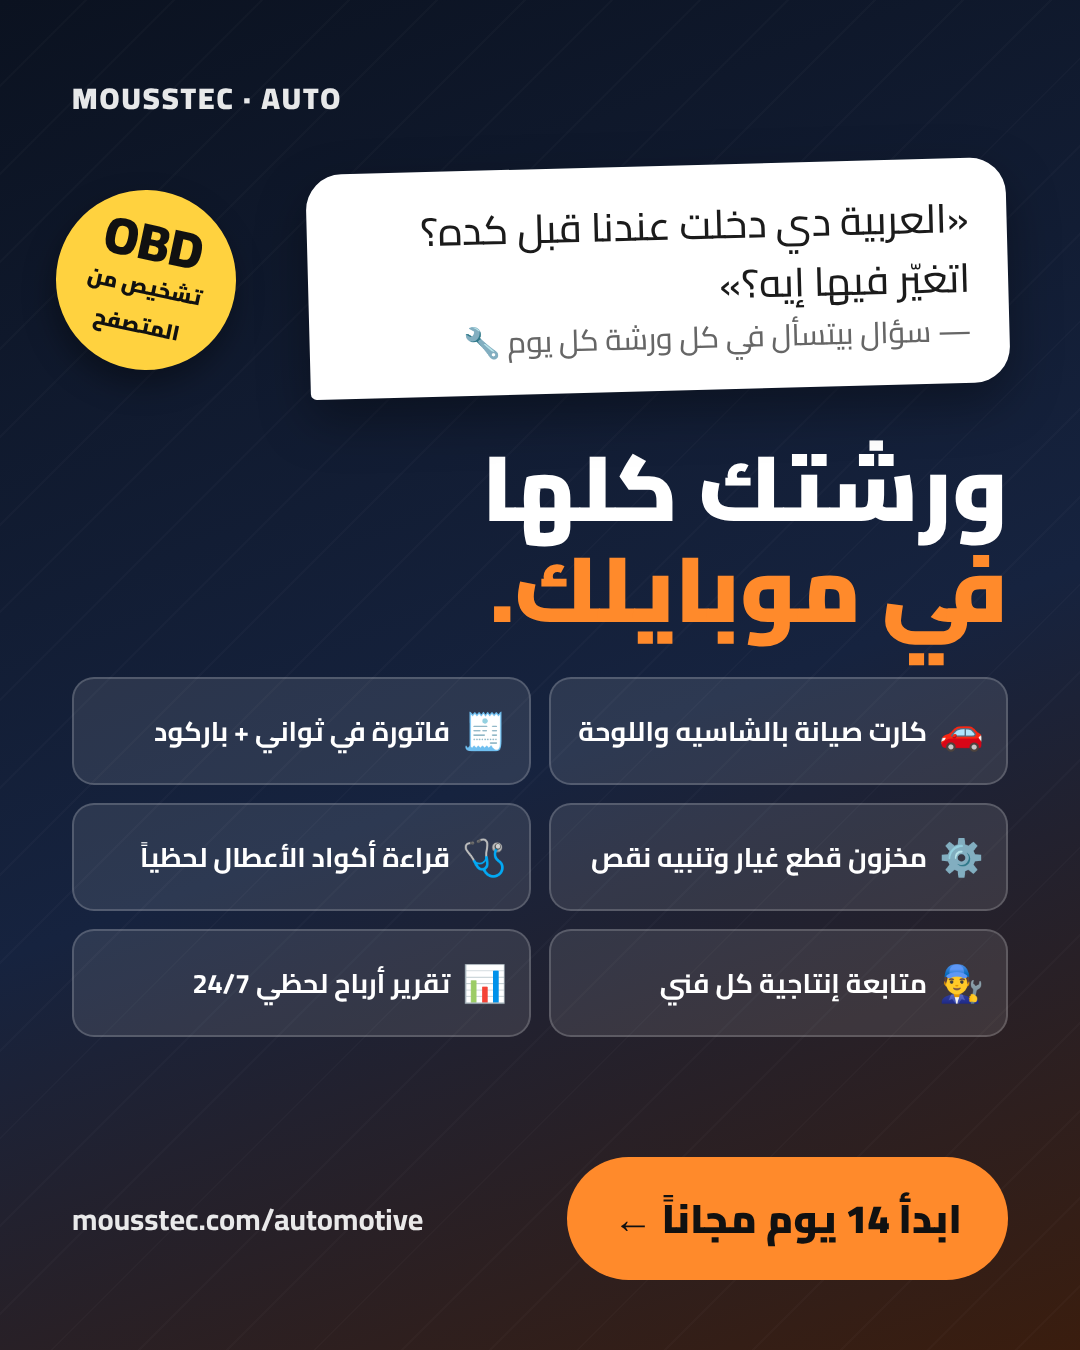
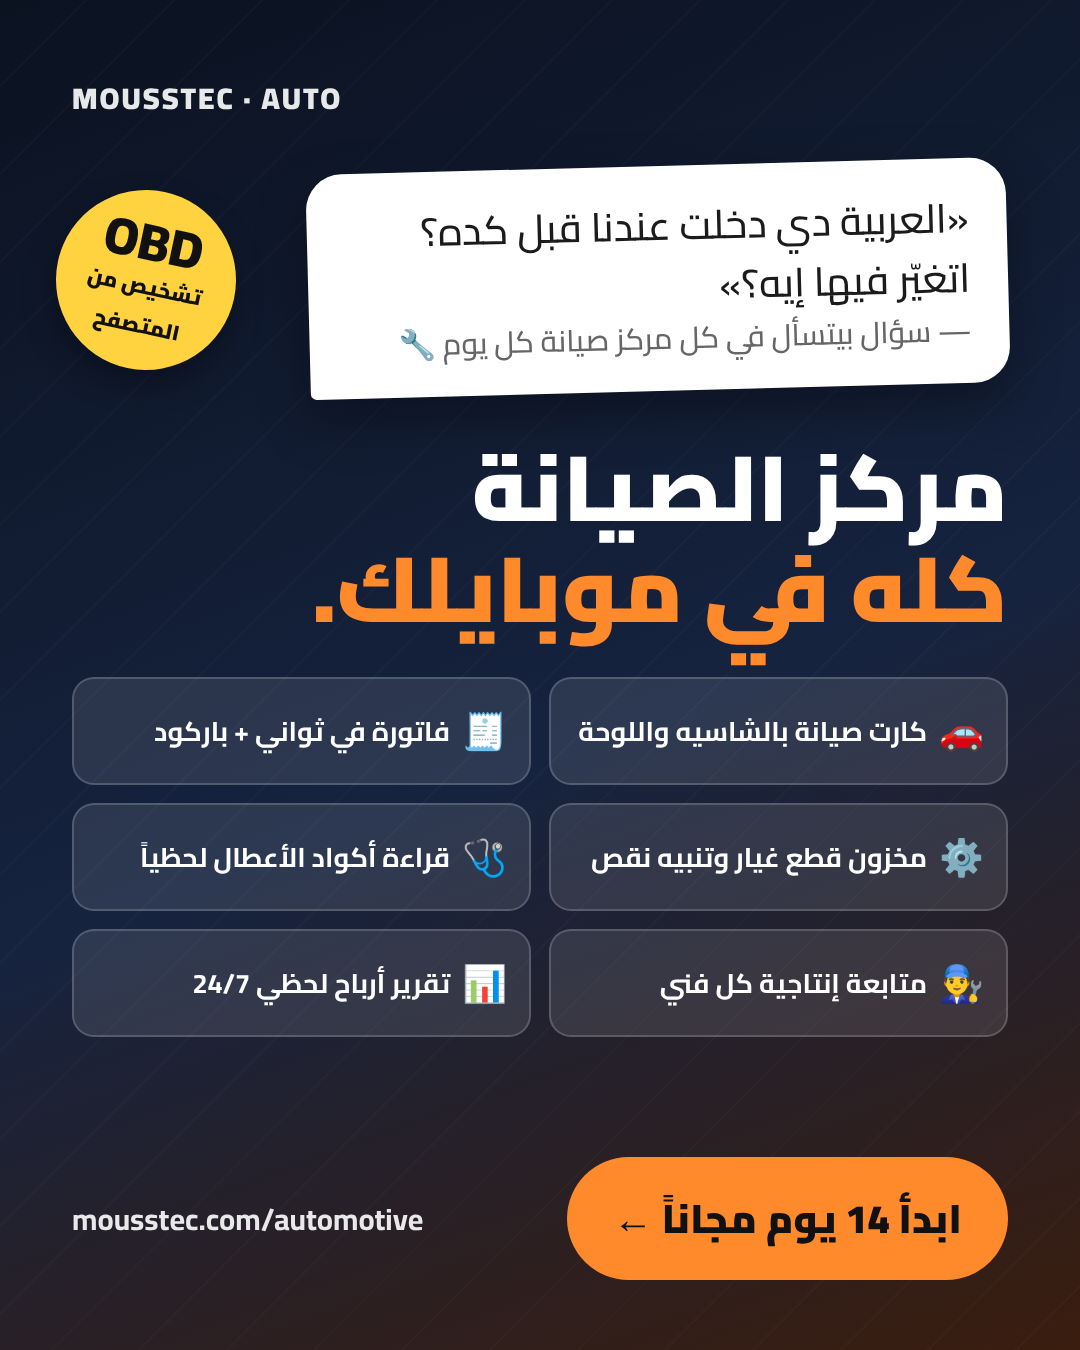
إعلانات: فصل السوق (عربيات/براند) + إعلان قطع الغيار والمستوردين + «مركز الصيانة» بدل الورشة
Claude-Session: https://claude.ai/code/session_01UznEmFMqksHGcdgbuHLP51

Changed region(s): [[0.275, 0.3111, 0.9472, 0.4978], [0.3667, 0.2489, 0.6111, 0.28]]

diff --git a/docs/ads/brand.html b/docs/ads/brand.html
@@ -1,0 +1,23 @@
+<html><head><meta charset="utf-8"><link rel="stylesheet" href="base.css"><style>
+body{background:#fdf1f6;color:#22142b}
+.logo,.url{color:#22142b}.who{color:#6b5870}
+.quote{background:#7b2cbf;color:#fff}
+h1{margin-top:30px;font-size:84px}h1 em{color:#7b2cbf}.btn{background:#ff4f8b;color:#fff}.sticker{background:#ffd23f}
+.price{margin-top:30px;display:flex;align-items:center;gap:22px;background:#22142b;color:#fff;border-radius:28px;padding:22px 30px}
+.price .big{font-size:76px;font-weight:900;color:#ffd23f;line-height:1}.price .s{font-size:28px;font-weight:700;line-height:1.4}
+.items{margin-top:28px;display:flex;flex-wrap:wrap;gap:14px}
+.items span{font-size:27px!important;background:#fff;border:2px solid #ecd3e2;border-radius:999px;padding:12px 24px;font-size:29px;font-weight:700}
+.items span:nth-child(odd){transform:rotate(-2deg)}.items span:nth-child(even){transform:rotate(2deg)}
+.note{margin-top:20px;margin-bottom:20px;font-size:30px;font-weight:700}
+</style></head><body>
+<div class="sticker"><span class="n">32ج</span><span class="t">25 تصميم<br>بالـ AI</span></div>
+<div class="wrap">
+<div class="logo">MOUSSTEC · سوق الطباعة</div>
+<div class="quote">«عاوز لوجو وكام حاجة مطبوعة لمحلي… والمصمم طالب ٣٠٠٠ جنيه» 😅</div>
+<div class="who">— منة، فاتحة براند هاند ميد</div>
+<h1>صمّم بقروش…<br><em>واطبع على أي حاجة.</em></h1>
+<div class="price"><span class="big">25</span><span class="s">تصميم بـ 32 جنيه بس — لوجو، فلاير، كارت، بوستر<br><span style="opacity:.75;font-weight:500">وتشوف العينات قبل ما توافق</span></span></div>
+<div class="items"><span>📒 دفاتر</span><span>👕 تيشرتات</span><span>🪵 طباعة على الخشب</span><span>🖊 أقلام</span><span>☕ ماجات</span><span>🪪 كروت بزنس</span><span>✨ أي حاجة في دماغك</span></div>
+<div class="note">انزل طلبك في السوق… <span style="color:#7b2cbf">والمطابع تتنافس وتبعتلك عروض.</span></div>
+<div class="cta"><span class="btn">اطلب دلوقتي ←</span><span class="url">mousstec.com</span></div>
+</div></body></html>

diff --git a/docs/ads/parts.html b/docs/ads/parts.html
@@ -1,0 +1,21 @@
+<html><head><meta charset="utf-8"><link rel="stylesheet" href="base.css"><style>
+body{background:linear-gradient(170deg,#06281f 0%,#0c3b2e 50%,#122018 100%)}
+body:before{content:"";position:absolute;inset:0;background:radial-gradient(circle at 15% 85%,#f5b70033,transparent 40%)}
+h1{font-size:84px}h1 em{color:#f5b700}.btn{background:#f5b700}.sticker{background:#fff}
+</style></head><body>
+<div class="sticker"><span class="n">B2B</span><span class="t">بيع شحنات<br>لتجار تانيين</span></div>
+<div class="wrap">
+<div class="logo">MOUSSTEC · PARTS</div>
+<div class="quote">«القطعة دي عندنا ولا خلصت؟ ورقمها إيه؟ وفلان عليه كام؟» 🤯</div>
+<div class="who">— كل يوم في محل قطع غيار</div>
+<h1>محلك أو شركة الاستيراد…<br><em>تحت إيدك.</em></h1>
+<div class="feats">
+<div class="f"><b>⚙</b>مخزون بأرقام القطع + باركود</div>
+<div class="f"><b>🔔</b>تنبيه قبل الصنف ما يخلص</div>
+<div class="f"><b>🧾</b>فواتير بيع وشراء + واتساب</div>
+<div class="f"><b>📒</b>كشف حساب عملاء وموردين</div>
+<div class="f"><b>📥</b>طلبات قطع من عملاء جداد</div>
+<div class="f"><b>📊</b>مكسب كل صنف لحظياً</div>
+</div>
+<div class="cta"><span class="btn">ابدأ 14 يوم مجاناً ←</span><span class="url">mousstec.com/automotive</span></div>
+</div></body></html>

diff --git a/docs/ads/market.html b/docs/ads/market.html
@@ -9,13 +9,13 @@ h1 em{color:#e2471f}.f{background:#fff;border-color:#f0dcc4;color:#1d1a16;box-sh
 <div class="blob"></div>
 <div class="sticker"><span class="n">0ج</span><span class="t">الطلب ببلاش<br>للعملاء</span></div>
 <div class="wrap">
-<div class="logo">MOUSSTEC · السوق</div>
+<div class="logo">MOUSSTEC · سوق السيارات</div>
 <div class="quote">«لفّيت على ٧ محلات عشان قطعة واحدة… وكل واحد بسعر» 🥲</div>
 <div class="who">— أحمد، صاحب عربية</div>
 <h1>اكتب طلبك…<br><em>والعروض تجيلك.</em></h1>
 <div class="feats">
 <div class="f"><b>🔧</b>قطعة غيار أو صيانة لعربيتك</div>
-<div class="f"><b>🎨</b>لوجو، كروت، تيشرتات، طباعة</div>
+<div class="f"><b>🩺</b>فحص شامل وتشخيص أعطال</div>
 <div class="f"><b>🙈</b>رقمك مخفي — مفيش إزعاج</div>
 <div class="f"><b>⭐</b>تقييمات حقيقية + ضمان</div>
 <div class="f"><b>🔒</b>فلوسك محجوزة لحد ما تستلم</div>

diff --git a/docs/ads/auto.html b/docs/ads/auto.html
@@ -6,8 +6,8 @@ h1 em{color:#ff8a2b}.btn{background:#ff8a2b}.sticker{background:#ffd23f}
 <div class="sticker"><span class="n">OBD</span><span class="t">تشخيص من<br>المتصفح</span></div>
 <div class="wrap">
 <div class="logo">MOUSSTEC · AUTO</div>
-<div class="quote">«العربية دي دخلت عندنا قبل كده؟ اتغيّر فيها إيه؟»<br><span style="font-size:30px;color:#666">— سؤال بيتسأل في كل ورشة كل يوم 🔧</span></div>
-<h1>ورشتك كلها<br><em>في موبايلك.</em></h1>
+<div class="quote">«العربية دي دخلت عندنا قبل كده؟ اتغيّر فيها إيه؟»<br><span style="font-size:30px;color:#666">— سؤال بيتسأل في كل مركز صيانة كل يوم 🔧</span></div>
+<h1>مركز الصيانة<br><em>كله في موبايلك.</em></h1>
 <div class="feats">
 <div class="f"><b>🚗</b>كارت صيانة بالشاسيه واللوحة</div>
 <div class="f"><b>🧾</b>فاتورة في ثواني + باركود</div>

diff --git a/docs/ads/shot.js b/docs/ads/shot.js
@@ -1,5 +1,5 @@
 const {chromium}=require('playwright');(async()=>{const b=await chromium.launch();
-for(const n of ['print','auto','market']){for(const [s,h] of [['feed',1350],['story',1920]]){
+for(const n of ['print','auto','parts','market','brand']){for(const [s,h] of [['feed',1350],['story',1920]]){
 const p=await b.newPage({viewport:{width:1080,height:h}});await p.goto('file://'+__dirname+'/'+n+'.html');
 if(s=='story')await p.addStyleTag({content:'body{height:1920px}.wrap{padding-top:260px;padding-bottom:300px}.sticker{top:380px}.cmyk{top:266px!important}'});
 await p.waitForTimeout(1500);await p.screenshot({path:`${__dirname}/${n}-${s}.png`});await p.close();}}
